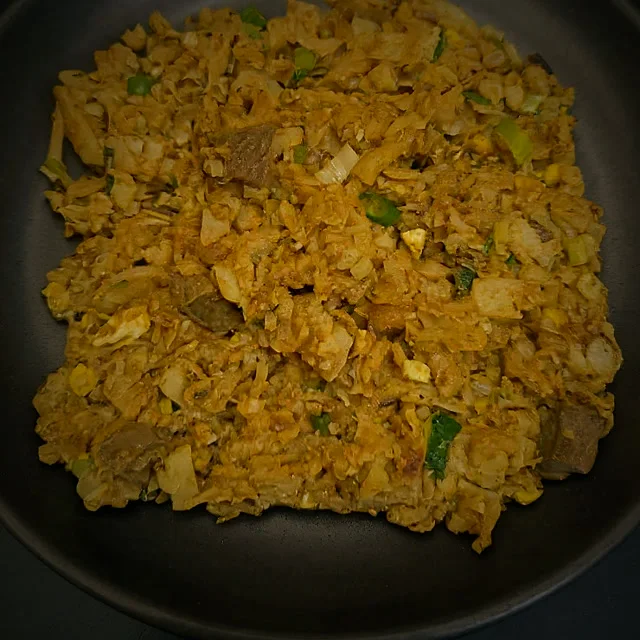
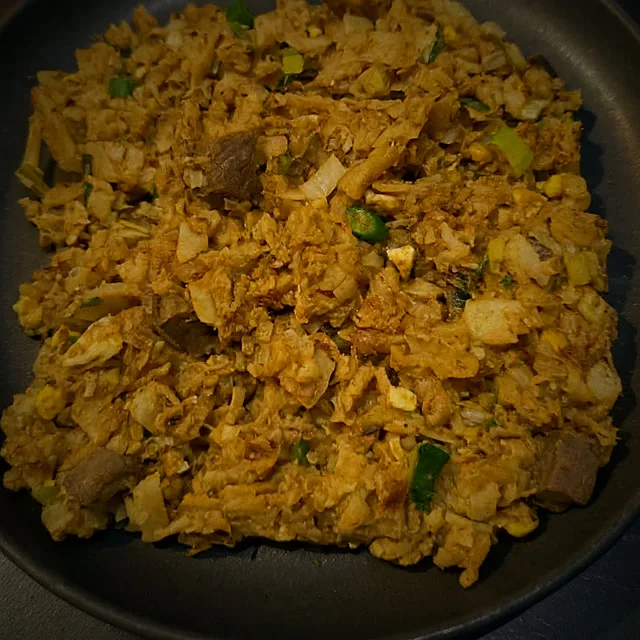
Plate two more owner photos: real pittu and an upgraded kothu
Pittu had been using a Creative Commons stand-in since no stock
library carries the dish; the owner's own photo replaces it, run
through the same pipeline as before (FLUX Kontext swaps the foam
box for a dark ceramic plate, food otherwise untouched, then the
site's cinematic grade).

First pass on the pittu shifted its colour from pale reddish-brown
to a saturated orange - the same kind of drift Kontext showed on
the biryani egg earlier. Retried with an explicit colour-lock
instruction and lower guidance, which held the original tone.

The new kothu shot is a better angle of the same dish than the one
currently in place, so it replaces it in the Kothu Rotti category.

diff --git a/menu.html b/menu.html
@@ -14,7 +14,7 @@
 <link rel="icon" type="image/svg+xml" href="img/logo.svg">
 <link rel="preconnect" href="https://api.fontshare.com" crossorigin>
 <link href="https://api.fontshare.com/v2/css?f[]=clash-display@500,600,700&f[]=satoshi@400,500,700&f[]=zodiak@400,401,500&display=swap" rel="stylesheet">
-<link rel="stylesheet" href="styles.css?v=37">
+<link rel="stylesheet" href="styles.css?v=38">
 </head>
 <body>
 
@@ -77,7 +77,7 @@
       <h2 class="rm"><span>Short eats</span></h2>
       <span class="mc-tamil" lang="ta">சிற்றுண்டி</span>
       <p class="mc-note">Fried to order. Priced per piece unless noted.</p>
-      <img class="mc-shot reveal" src="img/cat-shorteats.webp?v=37" alt="A plate of methu vadai fresh from the fryer at Restaurant BMS" loading="lazy">
+      <img class="mc-shot reveal" src="img/cat-shorteats.webp?v=38" alt="A plate of methu vadai fresh from the fryer at Restaurant BMS" loading="lazy">
     </div>
     <div class="mi-grid">
       <div class="mi reveal"><div class="mi-top"><span class="mi-name">Methu Vada <span class="mi-tag">veg</span></span><span class="mi-price">$0.75</span></div><p>Soft urad-lentil doughnut.</p></div>
@@ -99,7 +99,7 @@
       <h2 class="rm"><span>Kothu Rotti</span></h2>
       <span class="mc-tamil" lang="ta">கொத்து</span>
       <p class="mc-note">Chopped on the iron when you order. Extra egg +$1.</p>
-      <img class="mc-shot reveal" src="img/cat-kothu.webp?v=37" alt="Kothu rotti, chopped roti with egg, vegetables and meat" loading="lazy">
+      <img class="mc-shot reveal" src="img/cat-kothu.webp?v=38" alt="Kothu rotti, chopped roti with egg, vegetables and meat" loading="lazy">
     </div>
     <div class="mi-grid">
       <div class="mi reveal"><div class="mi-top"><span class="mi-name">Vegetable Kothu Rotti <span class="mi-tag">veg</span></span><span class="mi-price">$9.50</span></div><p>All the clatter, none of the meat.</p></div>
@@ -116,7 +116,7 @@
       <h2 class="rm"><span>Biryani</span></h2>
       <span class="mc-tamil" lang="ta">பிரியாணி</span>
       <p class="mc-note">Turmeric-gold rice, fried onions, a spiced piece on top. Weekends go fast.</p>
-      <img class="mc-shot reveal" src="img/cat-biryani.webp?v=37" alt="Chicken biryani, turmeric rice with a spiced fried piece" loading="lazy">
+      <img class="mc-shot reveal" src="img/cat-biryani.webp?v=38" alt="Chicken biryani, turmeric rice with a spiced fried piece" loading="lazy">
     </div>
     <div class="mi-grid">
       <div class="mi reveal"><div class="mi-top"><span class="mi-name">Vegetarian Biryani <span class="mi-tag">veg</span></span><span class="mi-price">$8.50</span></div></div>
@@ -131,7 +131,7 @@
       <h2 class="rm"><span>Fried Rice</span></h2>
       <span class="mc-tamil" lang="ta">வறுத்த சோறு</span>
       <p class="mc-note">Wok heat and the good char. Extra egg +$1.</p>
-      <img class="mc-shot reveal" src="img/cat-friedrice.webp?v=37" alt="Fried rice with vegetables and red onion rings" loading="lazy">
+      <img class="mc-shot reveal" src="img/cat-friedrice.webp?v=38" alt="Fried rice with vegetables and red onion rings" loading="lazy">
     </div>
     <div class="mi-grid">
       <div class="mi reveal"><div class="mi-top"><span class="mi-name">Vegetarian Fried Rice <span class="mi-tag">veg</span></span><span class="mi-price">$9.50</span></div></div>
@@ -148,7 +148,7 @@
       <h2 class="rm"><span>Noodles</span></h2>
       <span class="mc-tamil" lang="ta">நூடுல்ஸ்</span>
       <p class="mc-note">Same wok, same char.</p>
-      <img class="mc-shot reveal" src="img/cat-noodles.webp?v=37" alt="Wok-fried noodles tossed with shredded vegetables" loading="lazy">
+      <img class="mc-shot reveal" src="img/cat-noodles.webp?v=38" alt="Wok-fried noodles tossed with shredded vegetables" loading="lazy">
     </div>
     <div class="mi-grid">
       <div class="mi reveal"><div class="mi-top"><span class="mi-name">Vegetable Noodles <span class="mi-tag">veg</span></span><span class="mi-price">$8.50</span></div></div>
@@ -164,7 +164,7 @@
       <h2 class="rm"><span>Sauté &amp; devil</span></h2>
       <span class="mc-tamil" lang="ta">வறுவல்</span>
       <p class="mc-note">Wok-tossed, glossy, loud.</p>
-      <img class="mc-shot reveal" src="img/cat-devil.webp?v=37" alt="Devilled meat in the tray at a BMS event" loading="lazy">
+      <img class="mc-shot reveal" src="img/cat-devil.webp?v=38" alt="Devilled meat in the tray at a BMS event" loading="lazy">
     </div>
     <div class="mi-grid">
       <div class="mi reveal"><div class="mi-top"><span class="mi-name">Chilli Chicken</span><span class="mi-price">$12.00</span></div><p>Caramelized, glossy, unapologetic.</p></div>
@@ -179,7 +179,7 @@
       <h2 class="rm"><span>Curry</span></h2>
       <span class="mc-tamil" lang="ta">கறி</span>
       <p class="mc-note">Two sizes, priced 12 oz / 16 oz.</p>
-      <img class="mc-shot reveal" src="img/cat-curry.webp?v=37" alt="Sri Lankan curries in trays at a BMS event" loading="lazy">
+      <img class="mc-shot reveal" src="img/cat-curry.webp?v=38" alt="Sri Lankan curries in trays at a BMS event" loading="lazy">
     </div>
     <div class="mi-grid">
       <div class="mi reveal"><div class="mi-top"><span class="mi-name">Vegetarian Curry <span class="mi-tag">veg</span></span><span class="mi-price">$7.50 / $9.50</span></div></div>
@@ -196,7 +196,7 @@
       <h2 class="rm"><span>Thali</span></h2>
       <span class="mc-tamil" lang="ta">தாலி</span>
       <p class="mc-note">A full plate, many curries.</p>
-      <img class="mc-shot reveal" src="img/cat-thali.webp?v=37" alt="Rice and curry served on a banana leaf at BMS" loading="lazy">
+      <img class="mc-shot reveal" src="img/cat-thali.webp?v=38" alt="Rice and curry served on a banana leaf at BMS" loading="lazy">
     </div>
     <div class="mi-grid">
       <div class="mi reveal"><div class="mi-top"><span class="mi-name">Vegetarian Thali <span class="mi-tag">veg</span></span><span class="mi-price">$10.00</span></div><p>Rice with 4 vegetarian curries.</p></div>
@@ -211,7 +211,7 @@
       <h2 class="rm"><span>Pittu</span></h2>
       <span class="mc-tamil" lang="ta">புட்டு</span>
       <p class="mc-note">Steamed in the cylinder, then chopped to order if you want it kottu.</p>
-      <img class="mc-shot reveal" src="img/cat-pittu.webp?v=37" alt="Steamed pittu with chickpea curry" loading="lazy">
+      <img class="mc-shot reveal" src="img/cat-pittu.webp?v=38" alt="Steamed pittu, rice flour and coconut cylinders" loading="lazy">
     </div>
     <div class="mi-grid">
       <div class="mi reveal"><div class="mi-top"><span class="mi-name">Plain Pittu <span class="mi-tag">veg</span></span><span class="mi-price">$8.00</span></div><p>Steamed rice flour and coconut.</p></div>
@@ -228,7 +228,7 @@
       <h2 class="rm"><span>String Hoppers</span></h2>
       <span class="mc-tamil" lang="ta">இடியப்பம்</span>
       <p class="mc-note">Served with sothi and sambal.</p>
-      <img class="mc-shot reveal" src="img/cat-hoppers.webp?v=37" alt="Red rice string hoppers, steamed in nests" loading="lazy">
+      <img class="mc-shot reveal" src="img/cat-hoppers.webp?v=38" alt="Red rice string hoppers, steamed in nests" loading="lazy">
     </div>
     <div class="mi-grid">
       <div class="mi reveal"><div class="mi-top"><span class="mi-name">25 String Hoppers <span class="mi-tag">veg</span></span><span class="mi-price">$8.00</span></div></div>
@@ -247,7 +247,7 @@
       <h2 class="rm"><span>Dosai &amp; Idly</span></h2>
       <span class="mc-tamil" lang="ta">தோசை · இட்லி</span>
       <p class="mc-note">Served with chutney and sambar. Ghee or egg, +$1.</p>
-      <img class="mc-shot reveal" src="img/cat-dosai.webp?v=37" alt="A golden dosai served with chutney" loading="lazy">
+      <img class="mc-shot reveal" src="img/cat-dosai.webp?v=38" alt="A golden dosai served with chutney" loading="lazy">
     </div>
     <div class="mi-grid">
       <div class="mi reveal"><div class="mi-top"><span class="mi-name">Plain Dosai <span class="mi-tag">veg</span></span><span class="mi-price">$8.00</span></div><p>Five pieces.</p></div>
@@ -303,10 +303,10 @@
   </div>
 </footer>
 
-<script src="js/lenis.min.js?v=37"></script>
-<script src="js/gsap.min.js?v=37"></script>
-<script src="js/ScrollTrigger.min.js?v=37"></script>
-<script src="app.js?v=37"></script>
-<script src="js/motion.js?v=37"></script>
+<script src="js/lenis.min.js?v=38"></script>
+<script src="js/gsap.min.js?v=38"></script>
+<script src="js/ScrollTrigger.min.js?v=38"></script>
+<script src="app.js?v=38"></script>
+<script src="js/motion.js?v=38"></script>
 </body>
 </html>

diff --git a/index.html b/index.html
@@ -13,8 +13,8 @@
 <meta property="og:image" content="img/hero-counter.jpg">
 
 <link rel="icon" type="image/svg+xml" href="img/logo.svg">
-<link rel="preload" as="image" href="img/hero-counter.webp?v=37" media="(min-width: 761px)" fetchpriority="high">
-<link rel="preload" as="image" href="img/hero-counter-mobile.webp?v=37" media="(max-width: 760px)" fetchpriority="high">
+<link rel="preload" as="image" href="img/hero-counter.webp?v=38" media="(min-width: 761px)" fetchpriority="high">
+<link rel="preload" as="image" href="img/hero-counter-mobile.webp?v=38" media="(max-width: 760px)" fetchpriority="high">
 <script>
 /* Pre-paint: skip the opening splash on repeat views and for reduced motion.
    Runs before first paint so there is never a flash either way.
@@ -31,7 +31,7 @@ try {
 </script>
 <link rel="preconnect" href="https://api.fontshare.com" crossorigin>
 <link href="https://api.fontshare.com/v2/css?f[]=clash-display@500,600,700&f[]=satoshi@400,500,700&f[]=zodiak@400,401,500&display=swap" rel="stylesheet">
-<link rel="stylesheet" href="styles.css?v=37">
+<link rel="stylesheet" href="styles.css?v=38">
 
 <script type="application/ld+json">
 {
@@ -145,8 +145,8 @@ try {
 <section class="hero" id="hero">
   <div class="hero-bg" aria-hidden="true">
     <picture>
-      <source media="(max-width: 760px)" srcset="img/hero-counter-mobile.webp?v=37">
-      <img src="img/hero-counter.webp?v=37" alt="" fetchpriority="high">
+      <source media="(max-width: 760px)" srcset="img/hero-counter-mobile.webp?v=38">
+      <img src="img/hero-counter.webp?v=38" alt="" fetchpriority="high">
     </picture>
     <div class="hero-scrim"></div>
     <div class="steam"></div>
@@ -207,11 +207,11 @@ try {
     <p class="menu-note reveal">Filmed on our own griddle, mid-service.</p>
     <div class="gal-grid">
       <figure class="gal-item card reveal">
-        <video class="gal-v" data-src="media/kitchen-1.mp4?v=37" poster="media/kitchen-1.webp?v=37" muted loop playsinline preload="none"></video>
+        <video class="gal-v" data-src="media/kitchen-1.mp4?v=38" poster="media/kitchen-1.webp?v=38" muted loop playsinline preload="none"></video>
         <figcaption>Roti, egg and vegetables going under the blades.</figcaption>
       </figure>
       <figure class="gal-item card reveal" style="--d:.12s">
-        <video class="gal-v" data-src="media/kitchen-2.mp4?v=37" poster="media/kitchen-2.webp?v=37" muted loop playsinline preload="none"></video>
+        <video class="gal-v" data-src="media/kitchen-2.mp4?v=38" poster="media/kitchen-2.webp?v=38" muted loop playsinline preload="none"></video>
         <figcaption>Chopped and folded until it becomes one dish.</figcaption>
       </figure>
     </div>
@@ -436,10 +436,10 @@ try {
   </div>
 </footer>
 
-<script src="js/lenis.min.js?v=37"></script>
-<script src="js/gsap.min.js?v=37"></script>
-<script src="js/ScrollTrigger.min.js?v=37"></script>
-<script src="app.js?v=37"></script>
-<script src="js/motion.js?v=37"></script>
+<script src="js/lenis.min.js?v=38"></script>
+<script src="js/gsap.min.js?v=38"></script>
+<script src="js/ScrollTrigger.min.js?v=38"></script>
+<script src="app.js?v=38"></script>
+<script src="js/motion.js?v=38"></script>
 </body>
 </html>

diff --git a/catering.html b/catering.html
@@ -14,7 +14,7 @@
 <link rel="icon" type="image/svg+xml" href="img/logo.svg">
 <link rel="preconnect" href="https://api.fontshare.com" crossorigin>
 <link href="https://api.fontshare.com/v2/css?f[]=clash-display@500,600,700&f[]=satoshi@400,500,700&f[]=zodiak@400,401,500&display=swap" rel="stylesheet">
-<link rel="stylesheet" href="styles.css?v=37">
+<link rel="stylesheet" href="styles.css?v=38">
 </head>
 <body>
 
@@ -98,7 +98,7 @@
 
 <section class="wrap" style="padding-block: 0 var(--section-y);">
   <figure class="tray-shot reveal">
-    <img src="img/catering-tray.webp?v=37" alt="A full foil tray of Restaurant BMS chicken biryani with drumsticks and boiled eggs" loading="lazy">
+    <img src="img/catering-tray.webp?v=38" alt="A full foil tray of Restaurant BMS chicken biryani with drumsticks and boiled eggs" loading="lazy">
     <figcaption>Biryani by the tray, for the whole room.</figcaption>
   </figure>
 </section>
@@ -179,10 +179,10 @@
   </div>
 </footer>
 
-<script src="js/lenis.min.js?v=37"></script>
-<script src="js/gsap.min.js?v=37"></script>
-<script src="js/ScrollTrigger.min.js?v=37"></script>
-<script src="app.js?v=37"></script>
-<script src="js/motion.js?v=37"></script>
+<script src="js/lenis.min.js?v=38"></script>
+<script src="js/gsap.min.js?v=38"></script>
+<script src="js/ScrollTrigger.min.js?v=38"></script>
+<script src="app.js?v=38"></script>
+<script src="js/motion.js?v=38"></script>
 </body>
 </html>
